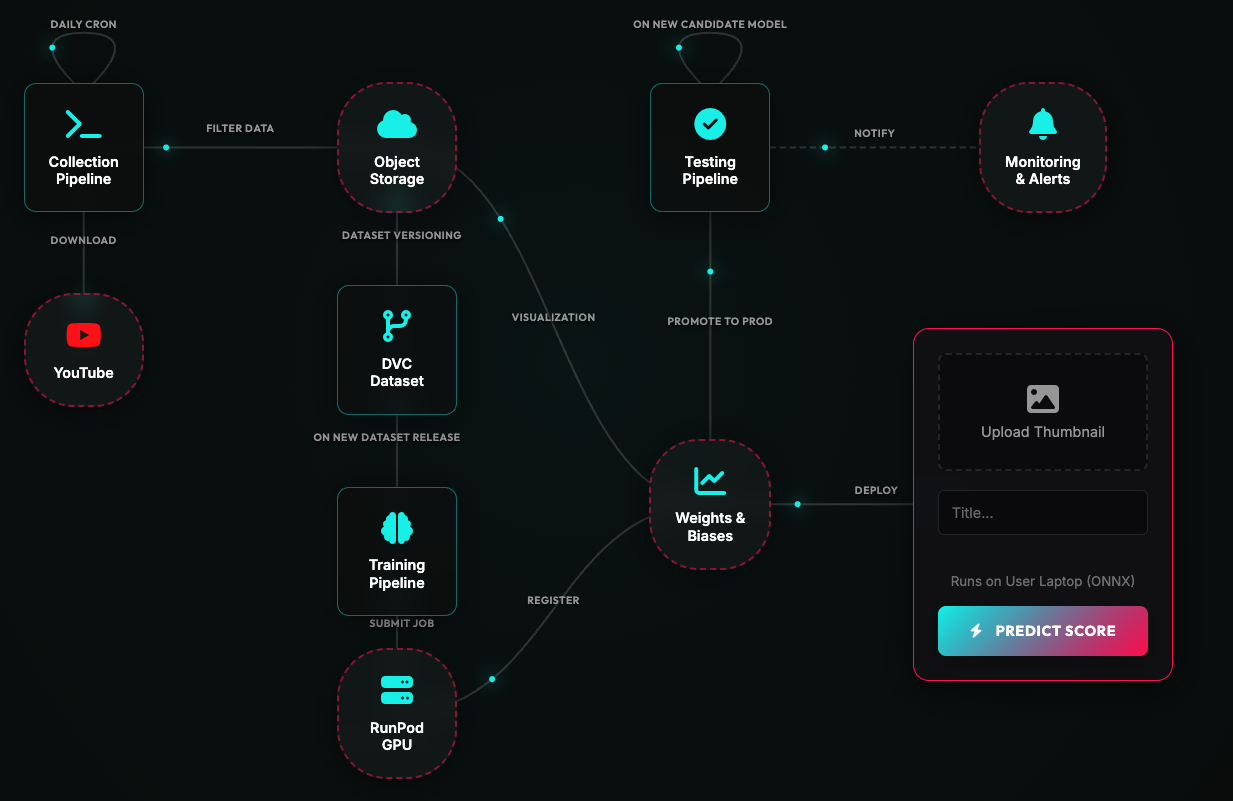
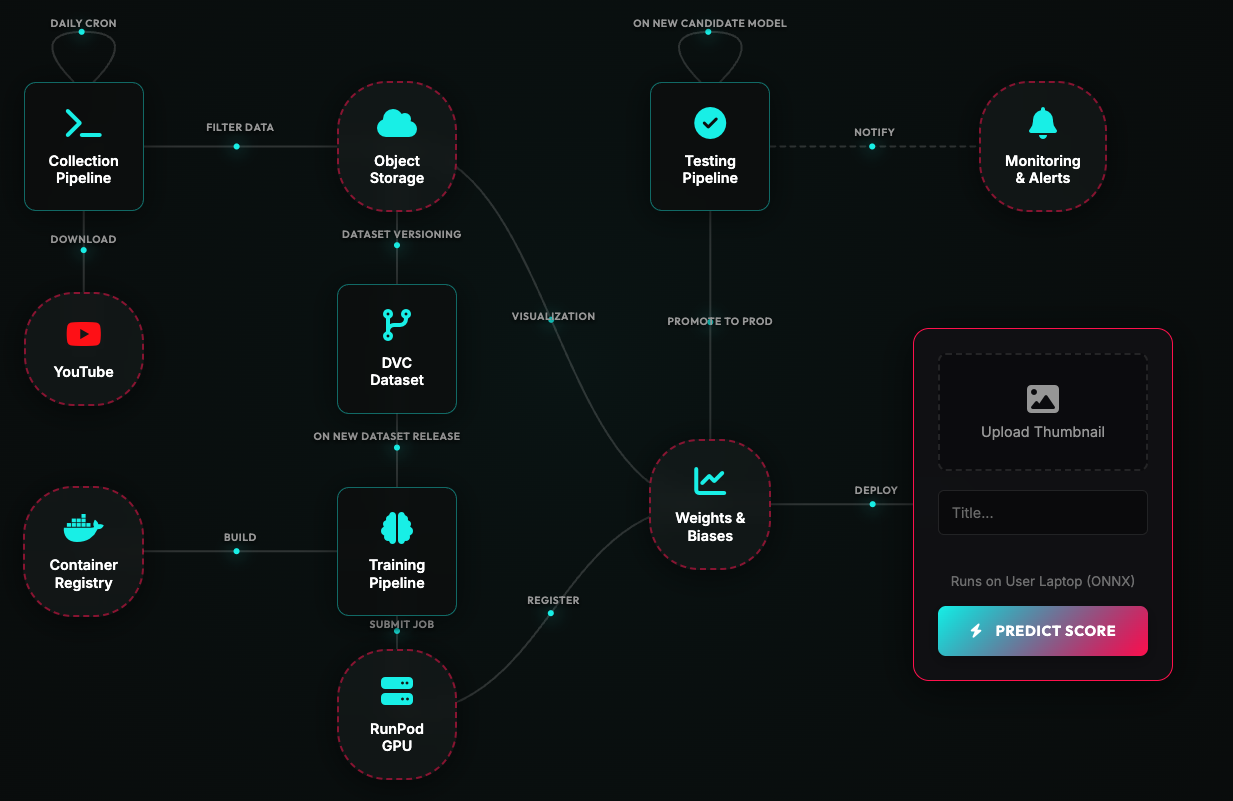
new diagram

diff --git a/index.html b/index.html
@@ -61,6 +61,14 @@
                 </div>
             </div>
 
+            <!-- Node New: Container Registry (Left of Training) -->
+            <div class="node-wrapper" style="grid-area: reg;">
+                <div class="node-box cloud" id="node-reg" data-tech="Docker Hub">
+                    <i class="fab fa-docker"></i>
+                    <span>Container<br>Registry</span>
+                </div>
+            </div>
+
             <!-- Node 2: S3 -->
             <div class="node-wrapper" style="grid-area: s3;">
                 <div class="node-box cloud" id="node-s3" data-tech="S3/R2">
@@ -403,6 +411,10 @@
             // DVC -> Train: "On New Dataset Release". 'step' puts it on midY horizontal.
             // User wants it "more on left".
             drawPath('node-dvc', 'node-train', 'step', 'On New Dataset Release', { x: -10, y: -5 });
+
+            // Registry -> Train: "Build" (Actually, usually it's Code -> Build -> Registry. But per user request:)
+            // Left of Train. 
+            drawPath('node-reg', 'node-train', 'step', 'Build', { x: 0, y: -5 });
 
             // Train -> RunPod
             drawPath('node-train', 'node-runpod', 'step', 'Submit Job', { x: 5, y: 0 });

diff --git a/style.css b/style.css
@@ -231,7 +231,7 @@ h3 {
         ".    .  v1    .  wb    .  inf"
         "yt   .  dvc   .  wb    .  inf"
         ".    .  v2    .  wb    .  inf"
-        ".    .  train .  wb    .  inf"
+        "reg  .  train .  wb    .  inf"
         ".    .  v3    .  wb    .  inf"
         ".    .  runpod.  wb    .  inf";
     grid-template-columns: 1fr 60px 1fr 60px 1fr 60px 1fr;
@@ -253,6 +253,11 @@ h3 {
     justify-content: center;
     z-index: 2;
     width: 100%;
+}
+
+/* Container Registry Node Spanning */
+.node-wrapper[style*="reg"] {
+    grid-area: reg;
 }
 
 /* Human Node Spanning */
